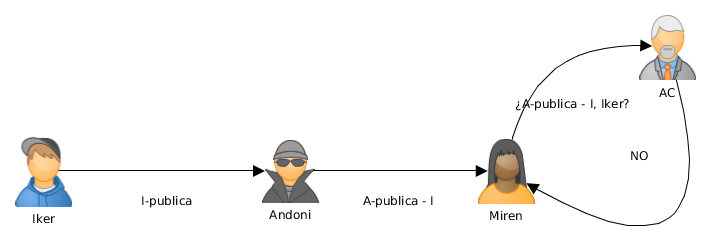
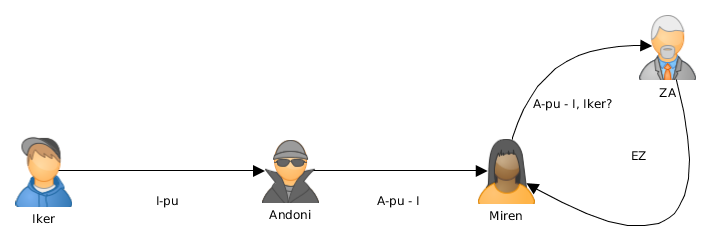
pfpfp

diff --git a/Zifraketa/index.html b/Zifraketa/index.html
@@ -807,9 +807,8 @@ Deszifratu - Zifratu):
             <h2>Klabe publikoko kriptografia</h2>
             <p>Arazo gehiago:
                 <ul>
-                    <li>¿Cómo sabe Iker si el mensaje es realmente de Miren?</li>
-                    <li>Cuando Iker conteste ¿Cómo sabe Miren que el mensaje
-                        es realmente de Iker?</li>
+                    <li>Nola daki Ikerrek mezua benetan Mirenena dela?</li>
+                    <li>Ikerrek erantzuten duenean, nola daki Mirenek benetan mezua Ikerrena dela?</li>
                 </ul>
             </p>
         </section>
@@ -817,27 +816,24 @@ Deszifratu - Zifratu):
         <section class="slide">
             <h2>Klabe publikoko kriptografia</h2>
             <ul>
-                <li>Si Iker lo cifra con su clave privada lo puede descifrar
-                    cualquiera (I<sub>pu</sub> la conoce todo el mundo)</li>
-                <li>Solución:
+                <li>Ikerrek zifratzen badu bere gako pribatuarekin edonork deszifratu ahal du (Mundu osoak ezagutzen du I<sub>pu</sub>)</li>
+                <li>Soluzioa:
                     <ul>
-                        <li>Iker cifra el mensaje con su clave privada: C1 = e ( m, I<sub>pri</sub> )</li>
-                        <li>Luego lo vuelve a cifrar con la clave pública de Miren: C2 = e ( C1 , M <sub>pública</sub> ) </li>
+                        <li>Ikerrek bere gako pribatuarekin zifratzen du mezua: C1 = e ( m, I<sub>pri</sub> )</li>
+                        <li>Gero Mirenen gako publikoarekin berriro zifratzen du: C2 = e ( C1 , M<sub>pu</sub> ) </li>
                         
                     </ul>
                 </li>
             </ul>
-            
-
         </section>
 
         <section class="slide">
             <h2>Klabe publikoko kriptografia</h2>
             <ul>
-                <li>Sólo Miren puede desencriptarlo con su clave privada:
+                <li>Mirenek bakarrik deszifratu ahal du bere gako pribatuarekin:
                     <ul>
-                        <li>Confidencialidad: Sólo Miren puede descifrar el mensaje: C1 = d ( C2 , M<sub>privada</sub> )</li>
-                        <li>Autenticidad y No Repudio: Sólo Iker ha podido enviar el mensaje: m = d ( C1, I<sub>pu</sub> )</li>
+                        <li>Konfidentzialtasuna: Mirenek soilik deszifratu ahal du mezua: C1 = d ( C2 , M<sub>pri</sub> )</li>
+                        <li>Kautotzea eta Zapuztezintasuna: Ikerrek soilik bidali ahal izan du mezua: m = d ( C1, I<sub>pu</sub> )</li>
                     </ul>
                 </li>
             </ul>
@@ -846,15 +842,12 @@ Deszifratu - Zifratu):
 
         <section class="slide">
             <h2>Klabe publikoko kriptografia</h2>
-            <p>¿Qué ocurre si se interpone alguien en las
-                comunicaciones?</p>
-            <p>Ataque Man in the middle:
+            <p>Zer gertatzen da baten bat komunikazio erdigunean jartzen bada</p>
+            <p>Man in the middle erasoa:
                 <ul>
-                    <li>Un intermediario recibe todos los mensajes sin que las
-                        otras partes se enteren
+                    <li>Bitartekari batek mezu guztiak jasotzen ditu partaideak jakin barik
                     </li>
-                    <li>Se necesita interceptar todas las comunicaciones entre
-                        las dos partes</li>
+                    <li>Partaideen komunikazio guztietan eskua sartu behar da</li>
                 </ul>
             </p>
 
@@ -868,22 +861,16 @@ Deszifratu - Zifratu):
 
         <section class="slide">
             <h2>Klabe publikoko kriptografia</h2>
-            <p>Cuando Iker y Miren quieren comenzar a comunicarse
-                de manera secreta, se intercambian las respectivas
-                claves públicas</p>
-            <p>Andoni las intercepta y las intercambia por la suya</p>
+            <p>Ikerrek eta Mirenek komunikatzen hasi nahi dutenean, klabe publikoak trukatzen dituzte</p>
+            <p>Andonik hartzen ditu eta bere klabearekin aldatzen ditu</p>
             <p><img  style="border: 1px solid #555;"  src="pictures-issks-31/AndoniIkerMirenManInTheMiddle.png" alt="criptosistema clave privada" width="40%"></p>
         </section>
 
         <section class="slide">
             <h2>Klabe publikoko kriptografia</h2>
-            <p>Iker y Miren cifran sus mensajes con la que CREEN la
-                clave pública del otro y con su clave privada</p>
-            <p>Andoni intercepta los mensajes, los lee, modifica y
-                los encripta con su clave privada</p>
-                
+            <p>Ikerrek eta Mirenek mezuak zifratzen dituzte ustezko bestearen klabe publikoarekin eta beraien klabe pribatuarekin</p>
+            <p>Andonik mezuak jasotzen ditu, irakurtzen ditu, aldatzen ditu, eta bere klabe pribatuarekin zifratzen ditu</p>   
         </section>
-
 
         <section class="slide">
             <h2>Klabe publikoko kriptografia</h2>
@@ -893,15 +880,12 @@ Deszifratu - Zifratu):
 
         <section class="slide">
             <h2>Klabe publikoko kriptografia</h2>
-            <p>Iker y Miren creen que están comunicándose de
-                manera segura</p>
-            <p>Andoni está enterándose de todo y modificándolo a su
-                antojo</p>    
-            <p>Formas de evitarlo:
+            <p>Ikerrek eta Mirenek modu seguruan komunikatzen ari direla uste dute</p>
+            <p>Andonik dena irakurtzen du eta nahi beste aldatzen</p>    
+            <p>Ekiditeko:
                 <ul>
-                    <li>Paso de claves en canales "seguros"</li>
-                    <li>Uso de una autoridad que certifique que una clave
-                        pública pertenece a quien dice: Autoridad de Certificación (AC)</li>
+                    <li>Klabeak kanal seguruen bidez elkarbanatu</li>
+                    <li>Autoritate (erakunde) batek klabe publiko bat norbaiti dagokiola zertifikatzea: Zertifikazio Autoritatea</li>
                 </ul>
             </p>
 
@@ -914,135 +898,127 @@ Deszifratu - Zifratu):
         </section>
 
         <section class="slide">
-            <h2>Cifrado híbrido</h2>
-            <p>Los sistemas de clave secreta son mucho más rápidos
-                que los de clave pública</p>
-            <p>Muchas veces se usa una combinación: El sistema de
-                    clave pública se usa para compartir una clave secreta
-                    S que sólo se usa una vez</p>
-            <p>El sistema de clave secreta usa S para cifrar el
-                mensaje</p>
+            <h2>Zifratu hibridoa</h2>
+            <p>Gako pribatuko sistemak gako publikokoak baino askoz azkarragoak dira</p>
+            <p>Askotan konbinazio bat erabiltzen da: gako publikoko sistema S gako sekretu bat elkarbanatzeko erabiltzen da, behin soilik erabiliko dena</p>
+            <p>Gako pribatuko sistemak S erabiltzen du mezua zifratzeko</p>
 
         </section>
 
         <section class="slide">
-            <h2>Cifrado híbrido</h2>
-            <p>Miren genera una clave secreta S y cifra su mensaje
-                usándola: cm = e1 (m,S)</p>
-            <p>Miren cifra S usando la clave pública de Iker
+            <h2>Zifratu hibridoa</h2>
+            <p>Mirenek S gako sekretua sortzen du, eta bere mezua zifratzeko erabiltzen du: cm = e1 (m,S)</p>
+            <p>Mirenek S zifratzen du Ikerren gako publikoarekin:
                 cs = e2 ( S , I<sub>pu</sub> )</p>
-            <p>Miren manda [ cm, cs ] a Iker</p>
+            <p>Mirenek [ cm, cs ] bidaltzen dio Ikerreri</p>
 
         </section>
 
         <section class="slide">
-            <h2>Cifrado híbrido</h2>
+            <h2>Zifratu hibridoa</h2>
             <p><img  style="border: 1px solid #555;"  src="pictures-issks-31/CifradoHibrido.png" alt="criptosistema clave privada" width="40%"></p>
 
         </section>
 
         <section class="slide">
-            <h2>Cifrado híbrido</h2>
-            <p>Iker recibe [ cm , cs ]</p>
-            <p>Iker descifra S usando su clave privada I<sub>pri</sub>: d2 ( cs , I<sub>pri</sub> ) = S</p>
-            <p>Iker descifra m usando S: d1 ( cm , S ) = m</p>
+            <h2>Zifratu hibridoa</h2>
+            <p>Ikerrek [ cm , cs ] jasotzen du</p>
+            <p>Ikerrek S deszifratzen bere gako pribatua erabiliz, I<sub>pri</sub>: d2 ( cs , I<sub>pri</sub> ) = S</p>
+            <p>Ikerrek S erabiliz m deszifratzen du: d1 ( cm , S ) = m</p>
         </section>
 
         <section class="slide">
-            <h2>Cifrado híbrido</h2>
+            <h2>Zifratu hibridoa</h2>
             <p><img  style="border: 1px solid #555;"  src="pictures-issks-31/CifradoHibridoRecibir.png" alt="criptosistema clave privada" width="40%"></p>
         </section>
 
         <section class="slide">
-            <h2>Firma digital</h2>
-            <p>Miren le manda un mensaje a Iker usando un sistema
-                de clave pública</p>
-            <p>Nadie puede leer el mensaje de Miren a Iker pero
-                cualquiera podría haberlo mandado</p>
-            <p>¿Cómo sabe Iker que se lo ha mandado Miren o que
-                nadie lo ha modificado?</p>
-            <p>Solución: Miren firma sus mensajes</p>
+            <h2>Sinadura digitala</h2>
+            <p>Mirenek Ikerreri mezua bidaltzen dio, gako publikoko sistema erabiliz</p>
+            <p>Edonrok ezin du irakurri Mirenen Ikerrentzako mezua, baina edozeinek bidali ahal du</p>
+            <p>Nola daki Ikerrek Mirenek bidali diola edo inork ez duela mezua aldatu?</p>
+            <p>Soluzioa: Mirenek mezua sinatzen du</p>
         </section>
 
         <section class="slide">
-            <h2>Firma digital</h2>
-            <p>Sólo el usuario legítimo puede firmar su documento</p>
-            <p>Nadie podrá falsificar una firma</p>
-            <p>Cualquiera puede verificar una firma digital</p>
+            <h2>Sinadura digitala</h2>
+            <p>Erabiltzaile zilegiak soilik sinatu ahal du bere dokumentua
+</p>
+            <p>Inork ezin du sinadura faltsutu</p>
+            <p>Edozein balioztatu ahal du sinadura digitala</p>
         </section>
 
         <section class="slide">
-            <h2>Firma digital</h2>
-            <p>No se puede reutilizar una firma</p>
-            <p>No se puede modificar una firma</p>
-            <p>No se puede negar haber firmado un documento</p>
-            <p>No se puede alterar un documento después de haberlo
-                firmado</p>
-            <p>Logramos Autenticidad, Integridad y No repudio</p>
+            <h2>Sinadura digitala</h2>
+            <p>Ezin da sinadura bat berrerabili</p>
+            <p>Ezin da sinadura bat aldatu</p>
+            <p>Ezin da dokumentu bat sinatu izana ukatu</p>
+            <p>Ezin da dokumentu bat aldatu sinatu ostean</p>
+            <p>Kautotzea, Osotasuna eta Zapuztezintasuna</p>
         </section>
 
         <section class="slide">
-            <h2>Firma digital</h2>
-            <p>Miren obtiene un resumen criptográfico del mensaje: RC = hash (m)</p>
-            <p>Miren cifra el resumen criptográfico con su clave: Firma = e ( RC, M<sub>privada</sub> )</p>
-            <p>Miren envía el mensaje (cifrado o sin cifrar) y su Firma</p>
+            <h2>Sinadura digitala</h2>
+            <p>Mirenek mezuaren laburpen kriptografikoa lortzen du: RC = hash (m)</p>
+            <p>Mireneke bere klabearekin zifratzen du laburpen kriptografikoa: Sinadura = e ( RC, M<sub>pri</sub> )</p>
+            <p>Mirenek bere mezua (Zifratua edo zifratu gabe) eta bere sinadura bidaltzen ditu</p>
         </section>
 
         <section class="slide">
-            <h2>Firma digital</h2>
+            <h2>Sinadura digitala</h2>
             <p><img  style="border: 1px solid #555;"  src="pictures-issks-31/FirmaMiren.png" alt="criptosistema clave privada" width="40%"></p>
         </section>
 
         <section class="slide">
-            <h2>Firma digital</h2>
-            <p>Iker desencripta la Firma usando la clave pública de Miren: RC = ( Firma, M<sub>pública</sub>)</p>
-            <p>Iker obtiene el resumen criptográfico del mensaje: RC’ = hash (m)</p>
-            <p>Iker compara RC’ con RC para asegurarse que no ha sido modificado</p>
+            <h2>Sinadura digitala</h2>
+            <p>Ikerrek sinadura deszifratzen du Mirenen gako publikoa erabiliz: RC = ( Sinadura, M<sub>pu</sub>)</p>
+            <p>Ikerrek mezuaren laburpen kriptografikoa lortzen du: RC’ = hash (m)</p>
+            <p>Ikerrek RC’ eta RC alderatzen ditu ezer aldatu ez dela baieztatzeko</p>
             <p></p>
         </section>
 
         <section class="slide">
-            <h2>Firma digital</h2>
+            <h2>Sinadura digitala</h2>
             <p><img  style="border: 1px solid #555;"  src="pictures-issks-31/FirmaIker.png" alt="criptosistema clave privada" width="40%"></p>
         </section>
 
         <section class="slide">
-            <h2>Firma digital</h2>
-            <p>Si además de firmarlo, Miren encripta su mensaje sólo Iker podrá leerlo: Se logra Confidencialidad, Autenticidad,
-                Integridad y No Repudio</p>
-            <p>Puede hacerlo usando:
+            <h2>Sinadura digitala</h2>
+            <p>sinatzeaz gain, Mirenek mezua zifratzen badu, Ikerrek bakarrik irakurriko du:  Konfidentzialtasuna, Osotasuna, Kautotzea, Zapuztezintasuna</p>
+            <p>Hurrengoak erabiltzea dauka:
                 <ul>
-                    <li>Un sistema de criptografía asimétrica</li>
-                    <li>Un sistema de criptografía híbrido</li>
+                    <li>Kriptografia asimetrikoa</li>
+                    <li>Kriptografia hibridoa</li>
                 </ul>
             </p>
         </section>
 
         <section class="slide">
-            <h2>Firma digital</h2>
-            <p>Un sistema de criptografía asimétrica. Enviaría a Iker:
+            <h2>Sinadura digitala</h2>
+            <p>Kriptografia asimetrikoa. Ikerreri bidali:
                 <ul>
-                    <li>Criptograma del mensaje cifrado con M<sub>privada</sub> y con I<sub>pu</sub></li>
-                    <li>Su Firma digital (el resumen criptográfico cifrado con
-                        M<sub>privada</sub> )</li>
+                    <li>Mezu zifratuaren kriptograma (M<sub>pri</sub> eta I<sub>pu</sub>-rekin zifratua)
+                    <li>Bere Sinadura digitala (Laburpen kriptografikoa,
+                        M<sub>pri</sub>-rekin zifratua)</li>
                 </ul>
             </p>
 
         </section>
 
         <section class="slide">
-            <h2>Firma digital</h2>
-        <p>Un sistema de criptografía híbrido. Enviaría a Iker:
+            <h2>Sinadura digitala</h2>
+        <p>Kriptografia hibridoa. Ikerreri bidali:
             <ul>
-                <li>Criptograma del mensaje cifrado con la clave de sesión</li>
-                <li>Criptograma con la clave de sesión cifrada con I<sub>pu</sub></li>
-                <li>Su Firma digital (el resumen criptográfico cifrado con M<sub>privada</sub>)</li>
+                <li>Saio gakoarekin zifratutako mezuaren kriptograma</li>
+                <li>Saio gako zifratuaren kriptograma, I<sub>pu</sub>-rekin zifratua</li>
+                <li>Bere Sinadura digitala (Laburpen kriptografikoa,
+                    M<sub>pri</sub>-rekin zifratua)</li>
             </ul>
         </p>
     </section>
 
         <section class="slide">
-            <h2>Algoritmos de clave pública</h2>
+            <h2>Gako publikoko algoritmoak</h2>
             <p>Diffie-Hellman - 1976</p>
             <p>RSA - 1977</p>
             <p>ElGamal - 1984</p>
@@ -1051,18 +1027,18 @@ Deszifratu - Zifratu):
         </section>
 
         <section class="slide">
-            <h2>Algoritmos de clave pública</h2>
+            <h2>Gako publikoko algoritmoak</h2>
             <p><iframe width="560" height="315" src="https://www.youtube.com/embed/yDXiDOJgxmg" title="YouTube video player" frameborder="0" allow="accelerometer; autoplay; clipboard-write; encrypted-media; gyroscope; picture-in-picture" allowfullscreen></iframe></p>
         </section>
 
         <section class="slide">
-            <h2>Algoritmos de clave pública</h2>
+            <h2>Gako publikoko algoritmoak</h2>
             <p><iframe width="560" height="315" src="https://www.youtube.com/embed/M7kEpw1tn50" title="YouTube video player" frameborder="0" allow="accelerometer; autoplay; clipboard-write; encrypted-media; gyroscope; picture-in-picture" allowfullscreen></iframe></p>
         </section>
 
         <section class="slide">
-            <h2>Algoritmos de clave pública</h2>
-            <p>DNI electrónico (DNIe 3.0):
+            <h2>Gako publikoko algoritmoak</h2>
+            <p>DNI electronikoa (DNIe 3.0):
                 <ul>
                     <li>RSA</li>
                     <li>SHA-1 / SHA-256</li>
@@ -1072,7 +1048,7 @@ Deszifratu - Zifratu):
         </section>
 
         <section class="slide">
-            <h2>Algoritmos de clave pública</h2>
+            <h2>Gako publikoko algoritmoak</h2>
         <p>PGP:
             <ul>
                 <li>RSA / DSA</li>
@@ -1082,7 +1058,7 @@ Deszifratu - Zifratu):
         </section>
 
         <section class="slide">
-            <h2>Algoritmos de clave pública</h2>
+            <h2>Gako publikoko algoritmoak</h2>
             <p>SSH:
                 <ul>
                     <li>RSA / DSA</li>
@@ -1098,23 +1074,21 @@ Deszifratu - Zifratu):
         </section>
 
         <section class="slide">
-            <h2>Confianza de firmas</h2>
-            <p>Aunque utilicemos firmas digitales:
+            <h2>Sinaduren konfidantza</h2>
+            <p>Sinadura digitalak erabilita ere:
                 <ul>
-                    <li>¿Cómo sabemos que la firma es de quien dice ser?</li>
-                    <li>¿Cómo nos asegura una autoridad de certificación que
-                        una firma es de quien dice ser?</li>
-                    <li>¿No podemos fiarnos de una firma que no esté avalada
-                        por una autoridad de certificación?</li>
+                    <li>Nola dakigu sinadura bat esaten duenarena dela?</li>
+                    <li>Nola bermatzen du Zertifikazio Autoritate batek hori horrela dela?</li>
+                    <li>Ezin gara fidatu Zertifikazio Autoritate batek bermatu duen sinadura batetaz?</li>
                 </ul>
             </p>
         </section>
 
         <section class="slide">
-            <h2>Confianza de firmas</h2>
+            <h2>Sinaduren konfidantza</h2>
 
                 <ul>
-                    <li>Se usa en PGP, GnuPG y similares</li>
+                    <li>PGP, GnuPG eta horrelakoak erabiltzen dira</li>
                     <li>Un usuario certifica (firmando con su clave privada)
                         que la clave pública de otro usuario es de confianza</li>
                     <li>La confianza se propaga según la confianza que
@@ -1171,7 +1145,7 @@ Deszifratu - Zifratu):
             <p>Una autoridad de certificación (AC) certifica la validez
                 de una firma
                 <ul>
-                    <li>Prestadores de Servicios de Certificación (PSC): Ley de Firma Electrónica (Ley 59/2003, LFE), Ley de Acceso Electrónico de los Ciudadanos a los Servicios Públicos (Ley 11/2007, LAESCP)</li>
+                    <li>Prestadores de Servicios de Certificación (PSC): Ley de Sinadura Electrónica (Ley 59/2003, LFE), Ley de Acceso Electrónico de los Ciudadanos a los Servicios Públicos (Ley 11/2007, LAESCP)</li>
                     <li>Los PSCs deben proporcionar un método de consulta de
                         la vigencia de sus certificados: Sólo las Administraciones Públicas tienen la obligación de
                         que sea gratuito</li>
